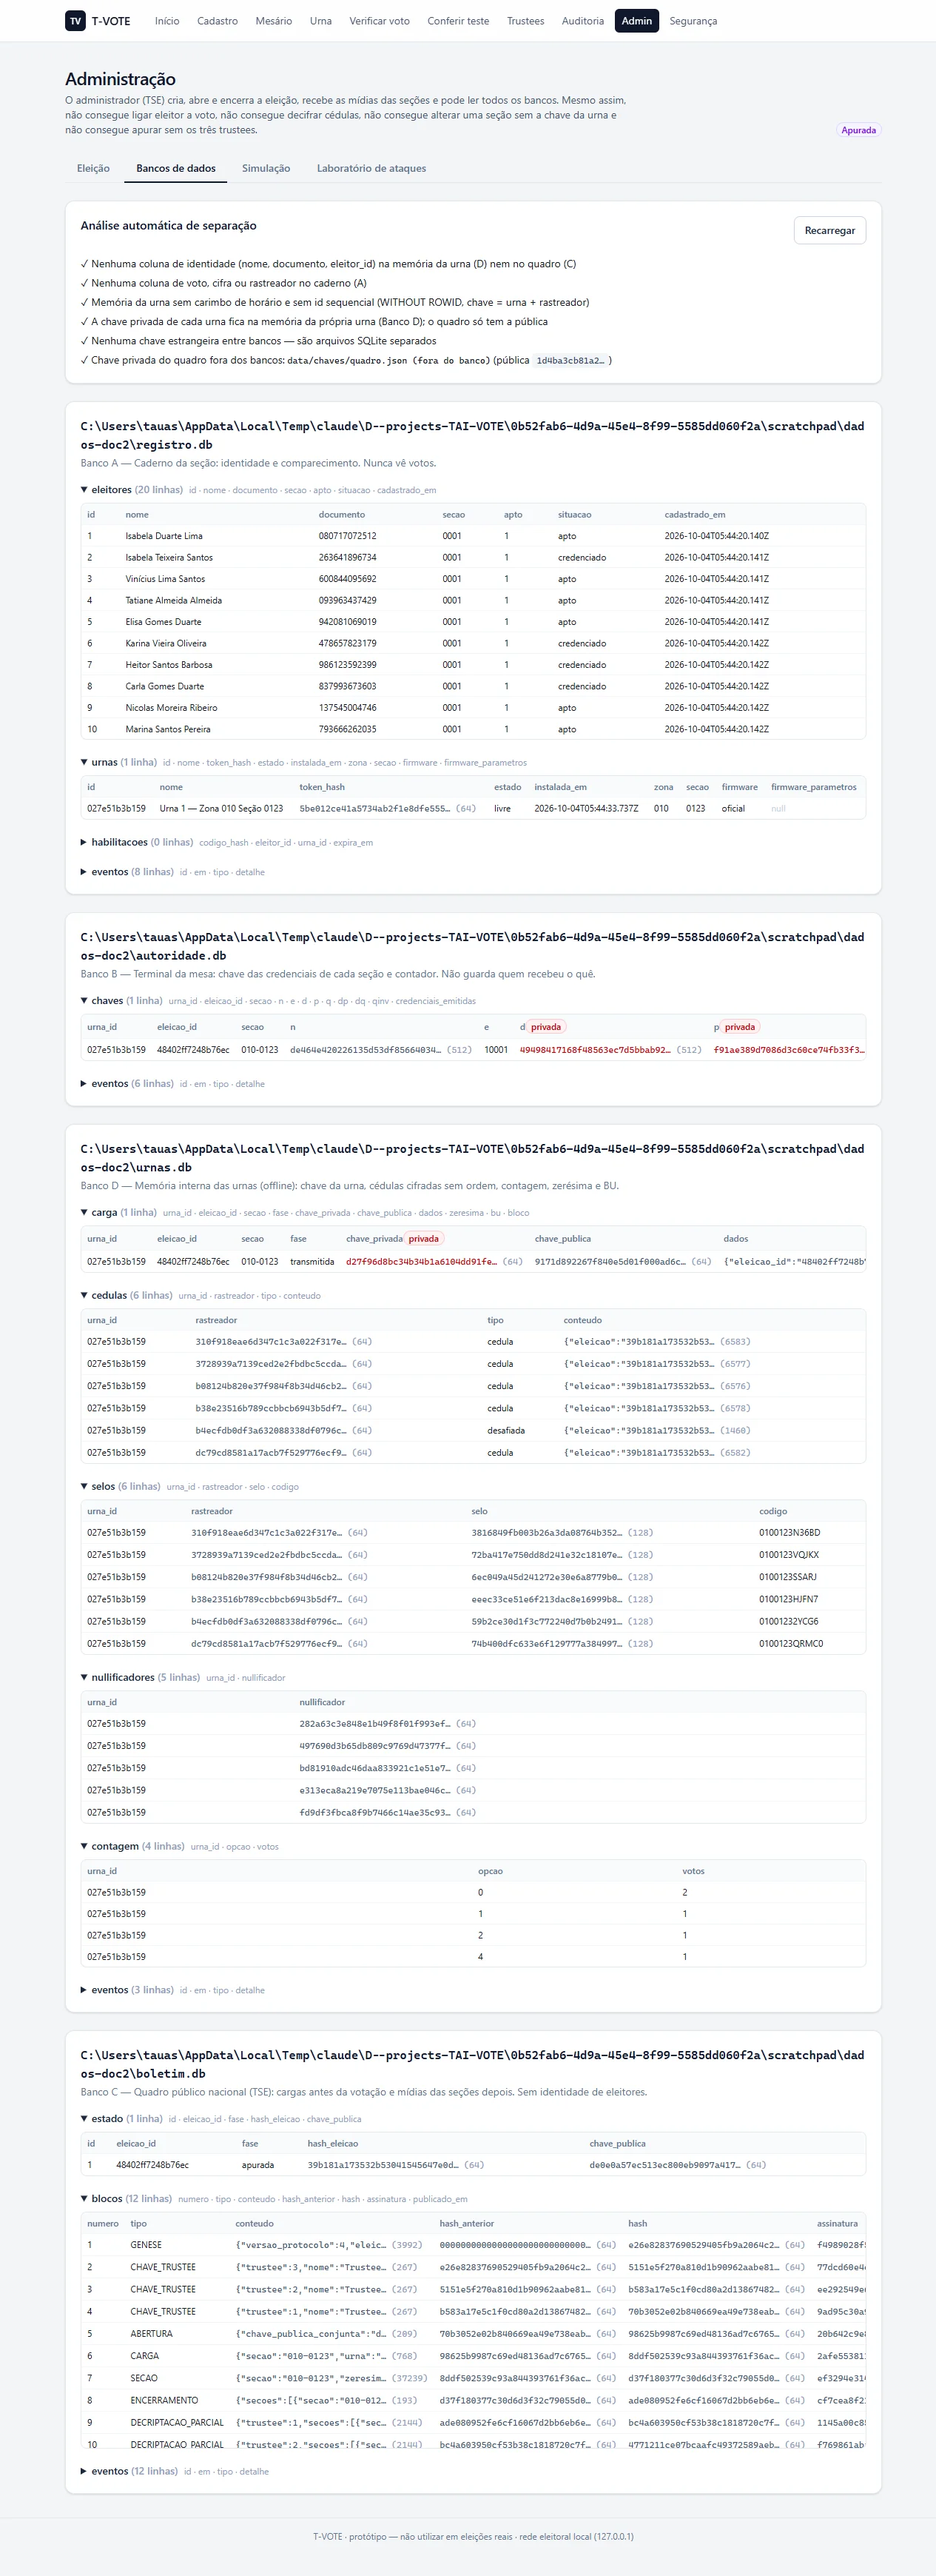
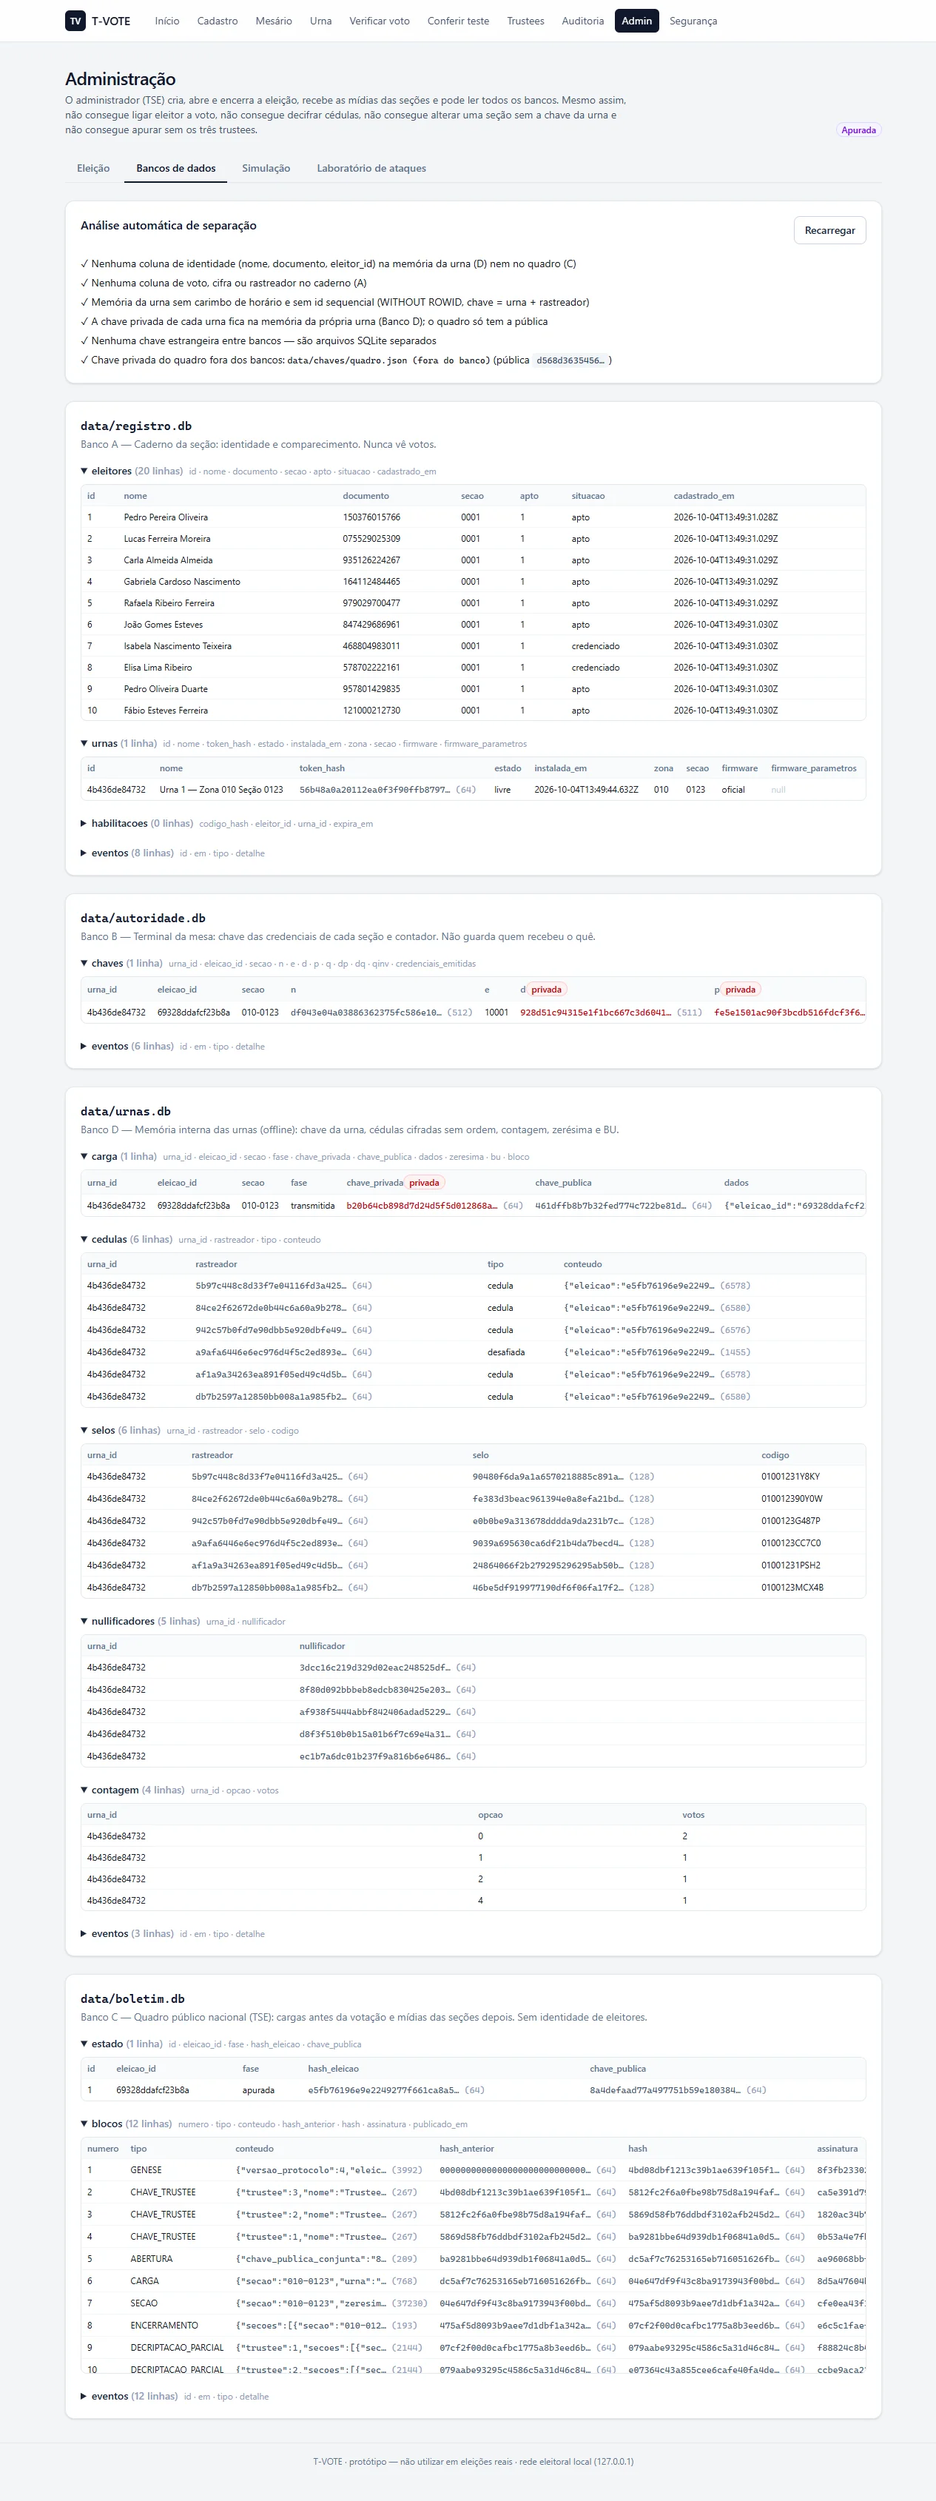
Hide local folder paths in Admin > Databases
The databases tab showed the absolute path of each .db file when the data
folder lived outside the project, exposing the Windows user name and local
folders. It now shows only a path relative to the project, or
"<pasta de dados>/..." when the folder is elsewhere.

Recapture the white paper screenshot of that tab (figure 21), which had
leaked a local temp path.

diff --git a/lib/server/admin.ts b/lib/server/admin.ts
@@ -9,6 +9,13 @@ import { chaveQuadro } from "./quadro";
 
 export type TabelaDespejo = { nome: string; colunas: string[]; linhas: Record<string, unknown>[]; total: number };
 
+/** Caminho para exibir na tela: relativo ao projeto, nunca absoluto (não revela usuário nem pastas do computador). */
+function caminhoExibido(arquivo: string): string {
+  const relativo = path.relative(process.cwd(), arquivo);
+  if (!relativo || relativo.startsWith("..") || path.isAbsolute(relativo)) return `<pasta de dados>/${path.relative(DIRETORIO_DADOS, arquivo).split(path.sep).join("/")}`;
+  return relativo.split(path.sep).join("/");
+}
+
 export function despejarBancos() {
   const bancos: NomeBanco[] = ["registro", "autoridade", "urnas", "boletim"];
   return {
@@ -27,7 +34,7 @@ export function despejarBancos() {
       });
       return {
         nome,
-        arquivo: path.relative(process.cwd(), caminhoBanco(nome)),
+        arquivo: caminhoExibido(caminhoBanco(nome)),
         descricao: DESCRICAO_BANCOS[nome],
         tabelas,
       };
@@ -35,7 +42,7 @@ export function despejarBancos() {
     chave_quadro: (() => {
       try {
         const k = chaveQuadro();
-        return { arquivo: "data/chaves/quadro.json (fora do banco)", publica: k.publica };
+        return { arquivo: `${caminhoExibido(path.join(DIRETORIO_DADOS, "chaves", "quadro.json"))} (fora do banco)`, publica: k.publica };
       } catch {
         return null;
       }
